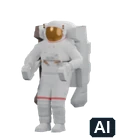
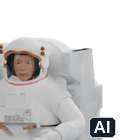
Open site-centered LROC imagery and animate the astronaut's face and hand

diff --git a/frontend/app/terrain-pair.tsx b/frontend/app/terrain-pair.tsx
@@ -133,7 +133,10 @@ export default function TerrainPair({ result, onDisplayedPair, replay, resolutio
           {/* The run-pinned Haworth site record identifies this point as the centre of a region. */}
           {row.id === "a3_haworth" && runId === "B_spice_pgda_bruteforce_2026_2030" &&
             <p className="muted text-sm">{t("This run uses a representative point for the Haworth region.")}</p>}
-          {"reason" in row.location && <p>{t(row.location.reason)}</p>}
+          {"point" in row.location
+            ? <a href={`https://data.lroc.im-ldi.com/lroc/?projection=ORTHO&c_lon=${row.location.point.longitude}&c_lat=${row.location.point.latitude}&x=0&y=0&resolution=73.05454999604635&layers=LUNA_WAC_GLOBAL`}
+                target="_blank" rel="noreferrer">{t("View this site in LROC imagery ↗")}</a>
+            : <p>{t(row.location.reason)}</p>}
           <p>{t("Coverage")} · {t(coverage)}</p>
           {completePair && <p><strong>{t("Rank {rank} of 2", { rank: row.rank })}</strong> · {t("Weighted score")} {row.score}</p>}
           {coverage === "complete" ? <dl className="metadata">

diff --git a/frontend/lib/i18n.ts b/frontend/lib/i18n.ts
@@ -223,6 +223,8 @@ export const vietnamese: Record<string, string> = {
   "Star map": "Bản đồ sao",
   "Pause sky and astronaut motion": "Tạm dừng chuyển động của nền trời và phi hành gia",
   "University and school": "Trường và viện",
+  "School of Aerospace Engineering on Facebook": "Facebook của Viện Công nghệ Hàng không Vũ trụ",
+  "View this site in LROC imagery ↗": "Xem ảnh LROC tại địa điểm này ↗",
   "School of Aerospace Engineering": "Viện Công nghệ Hàng không Vũ trụ",
   "VNU University of Engineering and Technology": "Trường Đại học Công nghệ, ĐHQGHN",
   "Contact the Moon Plan B team": "Liên hệ nhóm Moon Plan B",

diff --git a/frontend/app/site-chrome.tsx b/frontend/app/site-chrome.tsx
@@ -55,6 +55,7 @@ export function SiteFooter() {
       <div className="footer-directory" id="contact">
         <section><h2>{t("University and school")}</h2>
           <a href="https://sae.uet.vnu.edu.vn/">{t("School of Aerospace Engineering")}</a>
+          <a href="https://www.facebook.com/SAE.UET.VNU/">{t("School of Aerospace Engineering on Facebook")}</a>
           <a href="https://uet.vnu.edu.vn/">{t("VNU University of Engineering and Technology")}</a>
         </section>
         <section><h2>{t("Contact the Moon Plan B team")}</h2>

diff --git a/docs/FRONTEND_VERIFICATION.md b/docs/FRONTEND_VERIFICATION.md
@@ -258,13 +258,14 @@ The revised day/night suggestion added four system-rendered cloud silhouettes to
 | Item | Verified outcome | Remaining input or limit |
 |---|---|---|
 | I · Appearance | The circular day/night switch, hover tilt, local-time Auto and reduced-motion behavior were already on main before this review. | None for the specified controls. |
-| II · Globe | The homepage globe turns automatically until the visitor drags, zooms or uses the arrow keys. Site selection is on the comparison page. A paused or reduced-motion view stays still. Saved comparisons retain a link to the globe, named coordinate pins, 1–4× zoom and per-site Sun/Earth hours. [Dated globe lighting](GLOBE_SUNLIGHT.md) and the subsolar marker were checked for both saved-week starts in English and Vietnamese. | Close-up terrain and radio strength need their own data and model. |
-| III · Footer | The shared footer links to the project repository, its feedback channel, the School of Aerospace Engineering and VNU-UET. The team’s published contact address and phone use mailto and tel links. | No sponsorship is asserted. |
-| IV · Home and language | The language selector, resources navigation and a guide were already present. Home introduces the comparison and links to its guide and the separate `/compare` workspace. Import lives in the workspace and opens a bilingual dialog with both JSON schemas, a local example and the 5 MiB limit. Older saved and observation links retain their query and fragment. | Founder names require confirmation if the team wants them displayed. |
-| V · Typography | The title already had no terminal period and the lead was smaller. The Vietnamese API status line capitalizes each phrase after the separator in both demonstration and team API modes. | Recheck new copy when added. |
-| VI · Astronaut | The astronaut raises a gloved hand and waves, with separately articulated shoulder, elbow and wrist. Its opaque visor hides the eyes. The footer pause control and reduced-motion preference keep it still. The bilingual guide offers preset answers and free-text questions using a server-local model. A Vietnamese comparison of the saved week returned 139 h for Athena and 33 h for Odysseus with matching UTC bounds and run ID. On opening, the guide offers help and identifies the absence of instrument measurements. When covered, it also shows the model sample, UTC and source. | The model supplies predictions. Live measurements remain unavailable. |
+| II · Globe | The homepage globe turns automatically until the visitor drags, zooms or uses the arrow keys. Site selection is on the comparison page. A paused or reduced-motion view stays still. Saved comparisons retain a link to the globe, named coordinate pins, 1–4× zoom and per-site Sun/Earth hours. Terrain pair cards identify both reported positions and open the [LROC WAC map](https://data.lroc.im-ldi.com/lroc/) centered on each verifiable coordinate. The Haworth point represents a region. No map link appears for an unknown frame or missing position. [Dated globe lighting](GLOBE_SUNLIGHT.md) and the subsolar marker were checked for both saved-week starts in English and Vietnamese. | LROC imagery requires its external service. Received radio strength is not available. |
+| III · Footer | The shared footer links to the project repository, its feedback channel, the School of Aerospace Engineering and VNU-UET. The school’s [own website](https://sae.uet.vnu.edu.vn/) links to its Facebook page, also included in the footer. The team’s published contact address and phone use mailto and tel links. | No sponsorship is asserted. |
+| IV · Home and language | The language selector, resources navigation and a guide were already present. Home introduces the problem and purpose, links to the six team members, and links to its guide and the separate `/compare` workspace. Import lives in the workspace and opens a bilingual dialog with both JSON schemas, a local example and the 5 MiB limit. Older saved and observation links retain their query and fragment. | Founder names require confirmation if the team wants them displayed. |
+| V · Typography | The title already had no terminal period and the lead was smaller. The English and Vietnamese API status lines capitalize each phrase after the separator in both demonstration and team API modes. | Recheck new copy when added. |
+| VI · Astronaut | The astronaut raises a gloved hand and waves, with separately articulated shoulder, elbow and wrist. A generic face turns and blinks behind a clear visor. The 60 × 70 px launcher frames the upper body so the eyes and glove are visible. The footer pause control and reduced-motion preference keep it still. The bilingual guide offers preset answers and free-text questions using a server-local model. A Vietnamese comparison of the saved week returned 139 h for Athena and 33 h for Odysseus with matching UTC bounds and run ID. On opening, the guide offers help and identifies the absence of instrument measurements. When covered, it shows the model sample, UTC and source and advances while open when a new sample begins. | The model supplies predictions. Live measurements remain unavailable. |
+| Instant light readings | The archived Athena response at 05:00 UTC on 15 November shows 18.5915% visible solar disc and 259.149 W/m² irradiance on a Sun-facing surface. English and Vietnamese browser replays checked both values and the absence of rows for missing or invalid fields. | Irradiance is modeled; RF strength is unavailable. |
 | VII · Shared sky view | The local sky starts with one observation. **View from** switches between the primary, alternative and a two-observation overlay. In both single and overlaid views, clicking or focusing a Sun or Earth marker and pressing Enter or Space selects the matching site, UTC and body readings. Chromium checks also matched both sites’ azimuths and elevations to the archived January 7 Horizons response at 00:00 UTC. | Missing samples remain unavailable. |
-| VIII · Day and night backgrounds | Four transparent 1280-pixel cloud photographs retain their source dimensions. In Chromium the drifting layers moved 16.6–22.4 CSS pixels over their first five seconds. Four fixed stars vary in brightness at night. Four meteor paths alternate across the sky. Their 64–102 px trails appear 7.5–8.5 seconds apart. Comparing the same frame with and without each meteor showed 66–80 visible horizontal pixels at 1440 px and 54–63 at 390 px in EN/VI, using a 32/255 pixel-channel difference. Desktop and mobile Chromium checks covered pause, scrolling, both themes and reduced motion. Daylight clouds retain shaded undersides. | Private reference art was not distributed. |
+| VIII · Day and night backgrounds | Four transparent 1280-pixel cloud photographs retain their source dimensions. In Chromium the drifting layers moved 16.6–22.4 CSS pixels over their first five seconds. Four fixed stars vary in brightness at night. Four meteor paths alternate across the sky. Their 64–102 px trails appear 7.5–8.5 seconds apart. Comparing the same frame with and without each meteor showed visible trail spans of 66–80 pixels at 1440 px and 54–63 at 390 px in EN/VI, using a 32/255 pixel-channel difference. Desktop and mobile Chromium checks covered pause, scrolling, both themes and reduced motion. Daylight clouds retain shaded undersides. | Private reference art was not distributed. |
 | IX · Title spacing | Chromium measured two lines and a 16 px gap before the lead in English and Vietnamese at 320, 375, 768, 1024, 1280 and 1600 CSS pixels. | Browser zoom and custom fonts can change wrapping. |
 
 The current-time guide uses each loaded terrain site’s complete evaluated range and Sun/Earth windows at the most recent sampled UTC time. The saved comparison supports joint visibility only, with ±1 h boundary precision. Both preserve exclusive end times. Tests cover reopening after a time change, missing or partial coverage, time outside a selected week and individual body visibility. No hemisphere-wide condition is inferred.

diff --git a/docs/licenses/MakeHuman-CC0.md b/docs/licenses/MakeHuman-CC0.md
@@ -1,0 +1,41 @@
+# Creative Commons CC0 1.0 Universal
+
+CREATIVE COMMONS CORPORATION IS NOT A LAW FIRM AND DOES NOT PROVIDE LEGAL SERVICES. DISTRIBUTION OF THIS DOCUMENT DOES NOT CREATE AN ATTORNEY-CLIENT RELATIONSHIP. CREATIVE COMMONS PROVIDES THIS INFORMATION ON AN "AS-IS" BASIS. CREATIVE COMMONS MAKES NO WARRANTIES REGARDING THE USE OF THIS DOCUMENT OR THE INFORMATION OR WORKS PROVIDED HEREUNDER, AND DISCLAIMS LIABILITY FOR DAMAGES RESULTING FROM THE USE OF THIS DOCUMENT OR THE INFORMATION OR WORKS PROVIDED HEREUNDER.
+
+### Statement of Purpose
+
+The laws of most jurisdictions throughout the world automatically confer exclusive Copyright and Related Rights (defined below) upon the creator and subsequent owner(s) (each and all, an "owner") of an original work of authorship and/or a database (each, a "Work").
+
+Certain owners wish to permanently relinquish those rights to a Work for the purpose of contributing to a commons of creative, cultural and scientific works ("Commons") that the public can reliably and without fear of later claims of infringement build upon, modify, incorporate in other works, reuse and redistribute as freely as possible in any form whatsoever and for any purposes, including without limitation commercial purposes. These owners may contribute to the Commons to promote the ideal of a free culture and the further production of creative, cultural and scientific works, or to gain reputation or greater distribution for their Work in part through the use and efforts of others.
+
+For these and/or other purposes and motivations, and without any expectation of additional consideration or compensation, the person associating CC0 with a Work (the "Affirmer"), to the extent that he or she is an owner of Copyright and Related Rights in the Work, voluntarily elects to apply CC0 to the Work and publicly distribute the Work under its terms, with knowledge of his or her Copyright and Related Rights in the Work and the meaning and intended legal effect of CC0 on those rights.
+
+1. __Copyright and Related Rights.__ A Work made available under CC0 may be protected by copyright and related or neighboring rights ("Copyright and Related Rights"). Copyright and Related Rights include, but are not limited to, the following:
+
+    i. the right to reproduce, adapt, distribute, perform, display, communicate, and translate a Work;
+
+    ii. moral rights retained by the original author(s) and/or performer(s);
+
+    iii. publicity and privacy rights pertaining to a person's image or likeness depicted in a Work;
+
+    iv. rights protecting against unfair competition in regards to a Work, subject to the limitations in paragraph 4(a), below;
+
+    v. rights protecting the extraction, dissemination, use and reuse of data in a Work;
+
+    vi. database rights (such as those arising under Directive 96/9/EC of the European Parliament and of the Council of 11 March 1996 on the legal protection of databases, and under any national implementation thereof, including any amended or successor version of such directive); and
+
+    vii. other similar, equivalent or corresponding rights throughout the world based on applicable law or treaty, and any national implementations thereof.
+
+2. __Waiver.__ To the greatest extent permitted by, but not in contravention of, applicable law, Affirmer hereby overtly, fully, permanently, irrevocably and unconditionally waives, abandons, and surrenders all of Affirmer's Copyright and Related Rights and associated claims and causes of action, whether now known or unknown (including existing as well as future claims and causes of action), in the Work (i) in all territories worldwide, (ii) for the maximum duration provided by applicable law or treaty (including future time extensions), (iii) in any current or future medium and for any number of copies, and (iv) for any purpose whatsoever, including without limitation commercial, advertising or promotional purposes (the "Waiver"). Affirmer makes the Waiver for the benefit of each member of the public at large and to the detriment of Affirmer's heirs and successors, fully intending that such Waiver shall not be subject to revocation, rescission, cancellation, termination, or any other legal or equitable action to disrupt the quiet enjoyment of the Work by the public as contemplated by Affirmer's express Statement of Purpose.
+
+3. __Public License Fallback.__ Should any part of the Waiver for any reason be judged legally invalid or ineffective under applicable law, then the Waiver shall be preserved to the maximum extent permitted taking into account Affirmer's express Statement of Purpose. In addition, to the extent the Waiver is so judged Affirmer hereby grants to each affected person a royalty-free, non transferable, non sublicensable, non exclusive, irrevocable and unconditional license to exercise Affirmer's Copyright and Related Rights in the Work (i) in all territories worldwide, (ii) for the maximum duration provided by applicable law or treaty (including future time extensions), (iii) in any current or future medium and for any number of copies, and (iv) for any purpose whatsoever, including without limitation commercial, advertising or promotional purposes (the "License"). The License shall be deemed effective as of the date CC0 was applied by Affirmer to the Work. Should any part of the License for any reason be judged legally invalid or ineffective under applicable law, such partial invalidity or ineffectiveness shall not invalidate the remainder of the License, and in such case Affirmer hereby affirms that he or she will not (i) exercise any of his or her remaining Copyright and Related Rights in the Work or (ii) assert any associated claims and causes of action with respect to the Work, in either case contrary to Affirmer's express Statement of Purpose.
+
+4. __Limitations and Disclaimers.__
+
+    a. No trademark or patent rights held by Affirmer are waived, abandoned, surrendered, licensed or otherwise affected by this document.
+
+    b. Affirmer offers the Work as-is and makes no representations or warranties of any kind concerning the Work, express, implied, statutory or otherwise, including without limitation warranties of title, merchantability, fitness for a particular purpose, non infringement, or the absence of latent or other defects, accuracy, or the present or absence of errors, whether or not discoverable, all to the greatest extent permissible under applicable law.
+
+    c. Affirmer disclaims responsibility for clearing rights of other persons that may apply to the Work or any use thereof, including without limitation any person's Copyright and Related Rights in the Work. Further, Affirmer disclaims responsibility for obtaining any necessary consents, permissions or other rights required for any use of the Work.
+
+    d. Affirmer understands and acknowledges that Creative Commons is not a party to this document and has no duty or obligation with respect to this CC0 or use of the Work.

diff --git a/HANDOFF.md b/HANDOFF.md
@@ -2,9 +2,9 @@
 
 ## Mission Survival & Horizon Clearance Studio
 
-Checkpoint `54386ef` refines the studio without new endpoints or dependencies. The simulated clearance control spans 0–10° in 0.1° steps with 0/2/5° educational presets. The ribbon keeps four known states plus explicit unavailable UTC intervals, shows hours and percentages, and never turns a null or cadence gap into blackout. Educational darkness endurance uses 24/100/150-hour assumptions; a boundary-clipped dark span stays unresolved unless its observed duration already exceeds the selected reference. Producer intervals remain unchanged and separately labeled.
+The clearance control spans 0–10° in 0.1° steps with 0/2/5° educational presets. The ribbon keeps four known states plus explicit unavailable UTC intervals, shows hours and percentages, and never turns a null or cadence gap into blackout. Educational darkness endurance uses 24/100/150-hour assumptions; a boundary-clipped dark span stays unresolved unless its observed duration already exceeds the selected reference. Producer intervals remain unchanged and separately labeled.
 
-The synced HUD retains shortest-angle north wrapping, adds a side-elevation schematic, and labels its uniform mask as a sensitivity test rather than local terrain. Timeline and polar plots shade the selected clearance band. State patterns, always-mounted screen-reader interval text, 44px controls, forced-colors boundaries and printable results supplement color. English remains default with optional Vietnamese display translation; values, UTC and IDs are unchanged. Sun clearance is not a power model, and Earth visibility is not a radio-link budget.
+The HUD retains shortest-angle north wrapping, adds a side-elevation schematic, and labels its uniform mask as a sensitivity test rather than local terrain. Timeline and polar plots shade the selected clearance band. State patterns, always-mounted screen-reader interval text, 44px controls, forced-colors boundaries and printable results supplement color. English remains default with optional Vietnamese display translation; values, UTC and IDs are unchanged. Sun clearance is not a power model, and Earth visibility is not a radio-link budget.
 
 Minh’s clearance checkpoint passed 82 tests, route generation, TypeScript and build. The [QA replay](qa/docs/UI_RESILIENCE.md#horizon-clearance-and-direction-diagram) covers the side-view fix, 320px, desktop, forced colors, PDF and both orders of the archived Horizons comparison. On `65b7375`, both clocks skipped Athena’s missing 02:00 UTC in both directions.
 
@@ -16,13 +16,13 @@ Wi-Fi mock jobs work. [UI-01](qa/docs/UI_RESILIENCE.md#ui-01-pending-windows) ve
 
 Saved globes show [dated sunlight](docs/GLOBE_SUNLIGHT.md). Markers select body readings. Mobile QA covers contacts, imports, selection, UTC, clearance and API.
 
-Run B [ranked 23 sites](docs/BACKEND_RECONCILIATION.md#ranking-two-sites-in-one-window). [Validation](frontend/tests/catalog-ranking.test.ts) checks all IDs and both scores. Apollo 11 uses a smooth-sphere horizon. Six CSVs matched. Pair links restore sites and ranks. Reports include coordinates/heights. UTC lookup shows requested and native samples. FE/backend preserve 1 ns ends. [Confirmed routes](docs/FRONTEND_CONTRACT.md#published-route-scope).
+Run B [ranked 23 sites](docs/BACKEND_RECONCILIATION.md#ranking-two-sites-in-one-window). Pair cards show coordinates, globe pins and LROC imagery. Haworth represents a region; Apollo 11 assumes a smooth horizon. UTC lookup labels optional solar-disc fraction and Sun-facing irradiance. Retained responses passed EN/VI replay; the LAN producer was unreachable on retest. [Confirmed routes](docs/FRONTEND_CONTRACT.md#published-route-scope).
 
 [UI-09](qa/docs/UI_RESILIENCE.md#ui-09-keyboard-and-zoom) verified keyboard import, recovery, selection and gaps at 320px and 200% zoom. Globe focus visible. Sources reopen. [Home navigation](qa/check_home_navigation.mjs) reaches members and methods. Site selection: comparisons. [Sky projection](docs/CREDITS.md#night-theme-star-map), cloud shading and four meteor paths.
 
 [Live API and Horizons replay](qa/README.md#frontend-integration-retest). [Raw checks](qa/docs/JPL_CHECK.md#archived-four-response-check).
 
-The astronaut offers help, labels modeled readings, pauses its wave and opens pair/date controls for saved or displayed results. Saved joint visibility: Odysseus 33 h, Athena 139 h, with UTC and source. [Local Ollama](README.md#ask-the-astronaut).
+The astronaut turns, blinks and waves; pause and reduced motion keep it still. Its open guide refreshes at modeled sample boundaries. About links to the six team members; the footer includes the school’s Facebook page. [Local Ollama](README.md#ask-the-astronaut).
 
 ## Pending
 

diff --git a/docs/CREDITS.md b/docs/CREDITS.md
@@ -4,7 +4,7 @@
 
 Codex generated and revised the frontend implementation, runtime validator, tests, documentation and synthetic demonstration fixture after the recorded event start. Independent Codex reviewers inspected code, checked the fixture numerically and reran tests. Built-in Image Gen generated an internal design concept labeled as AI-generated; that raster is not shipped in the app. The app's simple icon and scientific diagrams are code-native SVG, also AI-assisted. No generated content includes NASA branding.
 
[2 lines of base64/hex data omitted]
 
 The proposal had AI-assisted history before implementation. Preserve that history in submission disclosure. The NASA guide's condition about SI supplying solution ideas remains unresolved for this history; no originality or award-eligibility declaration is made here.
 

diff --git a/qa/docs/RUNBOOK.md b/qa/docs/RUNBOOK.md
@@ -48,6 +48,7 @@ Record only consented, minimal observations; avoid names, recordings and persona
 - [ ] Sourced production package validates with `--release`; true query receipts, raw exports, parser compatibility and source authenticity reviewed. Synthetic labels remain on mocks.
 - [ ] Supported-runtime install, full frontend test/typecheck/build and production-preview checks pass at the frozen commit; no unsupported Node waiver.
 - [ ] Manual resilience/network/accessibility evidence and three real-user sessions recorded; no unresolved P0/P1 or scientific correctness defect. Exceptions require named human acceptance.
+- [ ] Before submitting the Final Project or demo, review the public roster and contact block against the [NASA participant terms](https://www.spaceappschallenge.org/legal/). The working site shows team names. Exclude identifiable names and likenesses of anyone under 18 and personal phone numbers from the submission. Keep the portrait preview private.
 - [ ] Licence/third-party notices, source and AI disclosures, current official rules and public links checked. Team Owner verifies portal rights, submits and retains receipt; Save Progress is not submission.
 
 Next handoff input: one agreed, versioned two-site producer export with original requests/raw responses. Run the package validator, report incompatibilities, then let integration owners approve any adapter before changing shared contracts.
